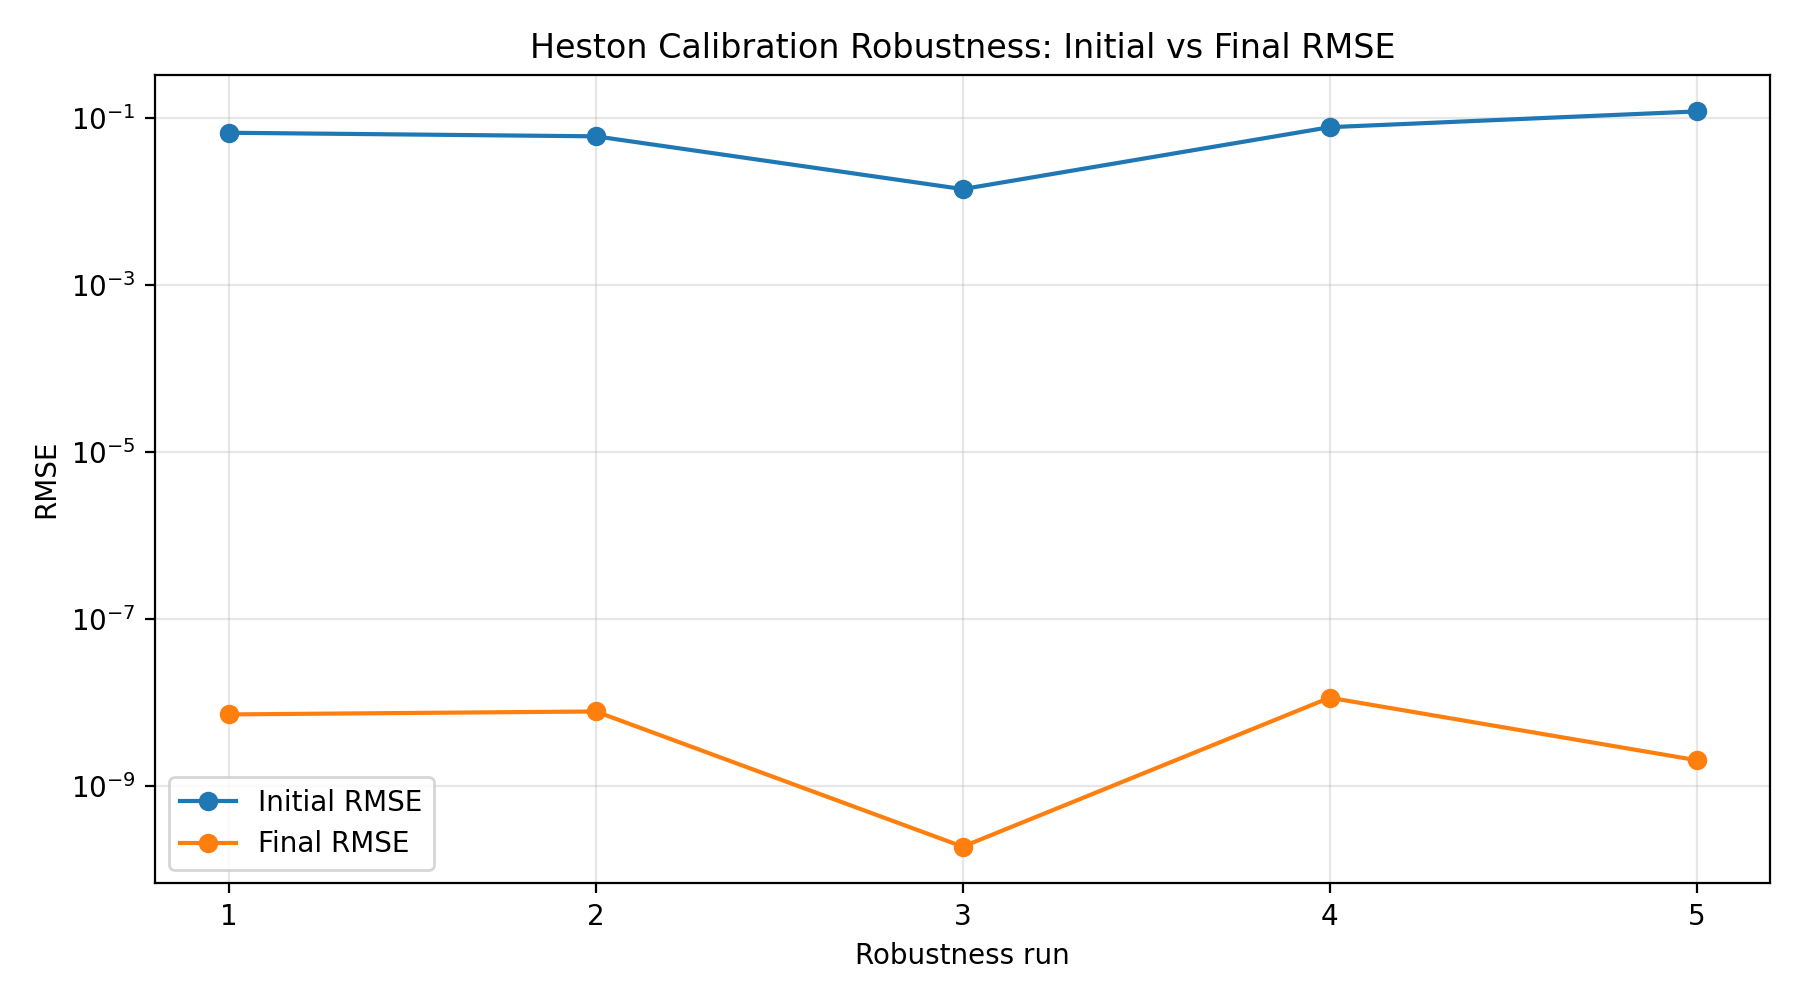
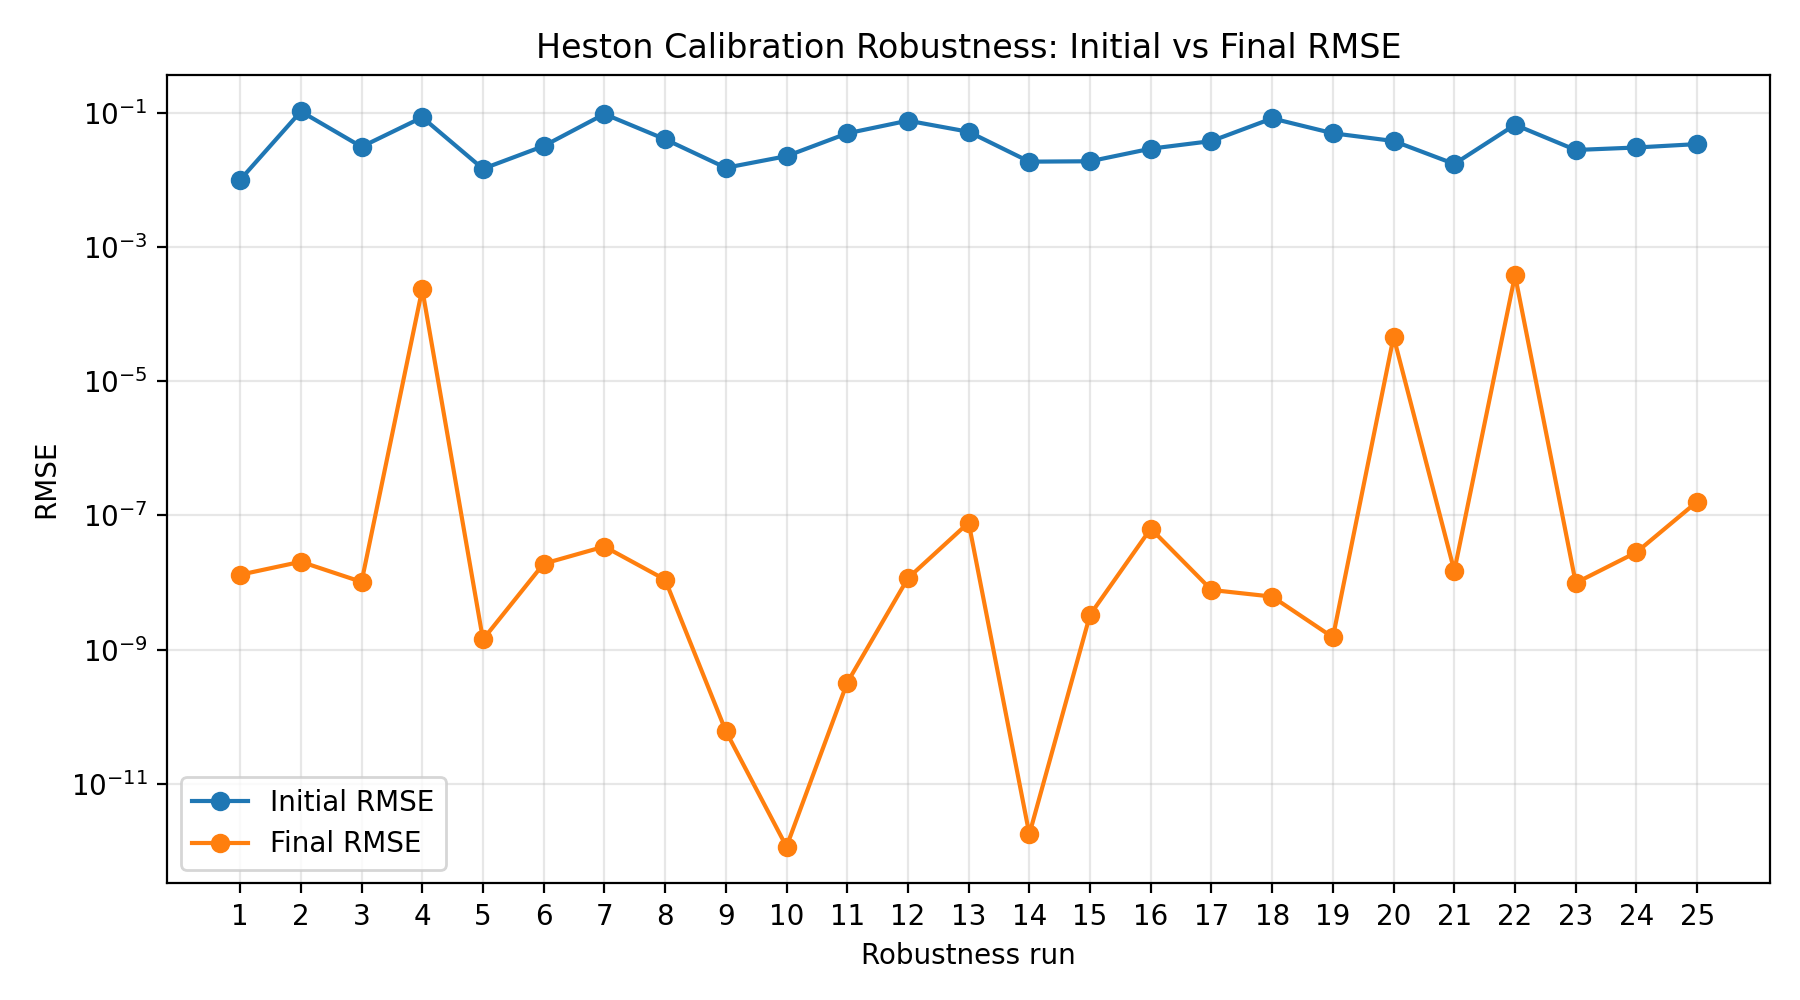
Increase robustness optimiser budget

diff --git a/scripts/run_robustness.py b/scripts/run_robustness.py
@@ -66,20 +66,48 @@ def build_synthetic_heston_market() -> HestonCalibrationMarket:
     )
 
 
-def initial_guess_grid() -> list[np.ndarray]:
+def initial_guess_grid(
+    n_guesses: int = 25,
+    seed: int = 123,
+) -> list[np.ndarray]:
     """
-    Candidate starting guesses for robustness testing.
+    Generate reproducible random Heston initial guesses inside a numerically stable
+    admissible region.
 
-    Each vector has order:
+    Parameter order:
     [kappa, theta, vol_of_vol, rho, v0]
     """
-    return [
-        np.array([0.8, 0.08, 0.80, -0.10, 0.09], dtype=float),
-        np.array([0.5, 0.02, 0.25, -0.30, 0.02], dtype=float),
-        np.array([1.0, 0.05, 0.50, -0.70, 0.05], dtype=float),
-        np.array([2.5, 0.10, 1.00, -0.90, 0.08], dtype=float),
-        np.array([3.0, 0.12, 1.50, -0.20, 0.12], dtype=float),
-    ]
+    rng = np.random.default_rng(seed)
+
+    lower_bounds = np.array(
+        [
+            0.60,   # kappa: avoid very slow mean reversion
+            0.03,   # theta: avoid unrealistically tiny long-run variance
+            0.30,   # vol_of_vol: avoid near-degenerate variance volatility
+            -0.85,  # rho: avoid extreme correlation near -1
+            0.03,   # v0: avoid very small initial variance
+        ],
+        dtype=float,
+    )
+
+    upper_bounds = np.array(
+        [
+            3.00,   # kappa: still allows varied mean reversion
+            0.10,   # theta: keeps long-run variance in a plausible range
+            1.00,   # vol_of_vol: avoids highly unstable extreme values
+            -0.35,  # rho: keeps negative equity-style skew without going extreme
+            0.10,   # v0: keeps initial variance plausible
+        ],
+        dtype=float,
+    )
+
+    guesses = rng.uniform(
+        low=lower_bounds,
+        high=upper_bounds,
+        size=(n_guesses, lower_bounds.size),
+    )
+
+    return [guess for guess in guesses]
 
 
 def safe_heston_residuals(
@@ -118,7 +146,7 @@ def error_summary(residuals: np.ndarray) -> dict[str, float]:
 def run_single_calibration(
     initial_guess: np.ndarray,
     market: HestonCalibrationMarket,
-    max_nfev: int = 100,
+    max_nfev: int = 300,
 ):
     """
     Run one bounded least-squares Heston calibration.
@@ -173,7 +201,7 @@ def summarise_run(
     }
 
 
-def main() -> None:
+def main(max_nfev: int = 300) -> None:
     """
     Run a Heston robustness experiment across multiple initial guesses.
     """
@@ -187,7 +215,7 @@ def main() -> None:
         result = run_single_calibration(
             initial_guess=initial_guess,
             market=market,
-            max_nfev=100,
+           max_nfev=max_nfev,
         )
 
         rows.append(

diff --git a/tests/test_robustness.py b/tests/test_robustness.py
@@ -36,7 +36,7 @@ def test_single_robustness_calibration_reduces_error() -> None:
     result = run_single_calibration(
         initial_guess=initial_guess,
         market=market,
-        max_nfev=100,
+        max_nfev=300,
     )
 
     final_sse = float(np.sum(np.asarray(result.residuals) ** 2))
